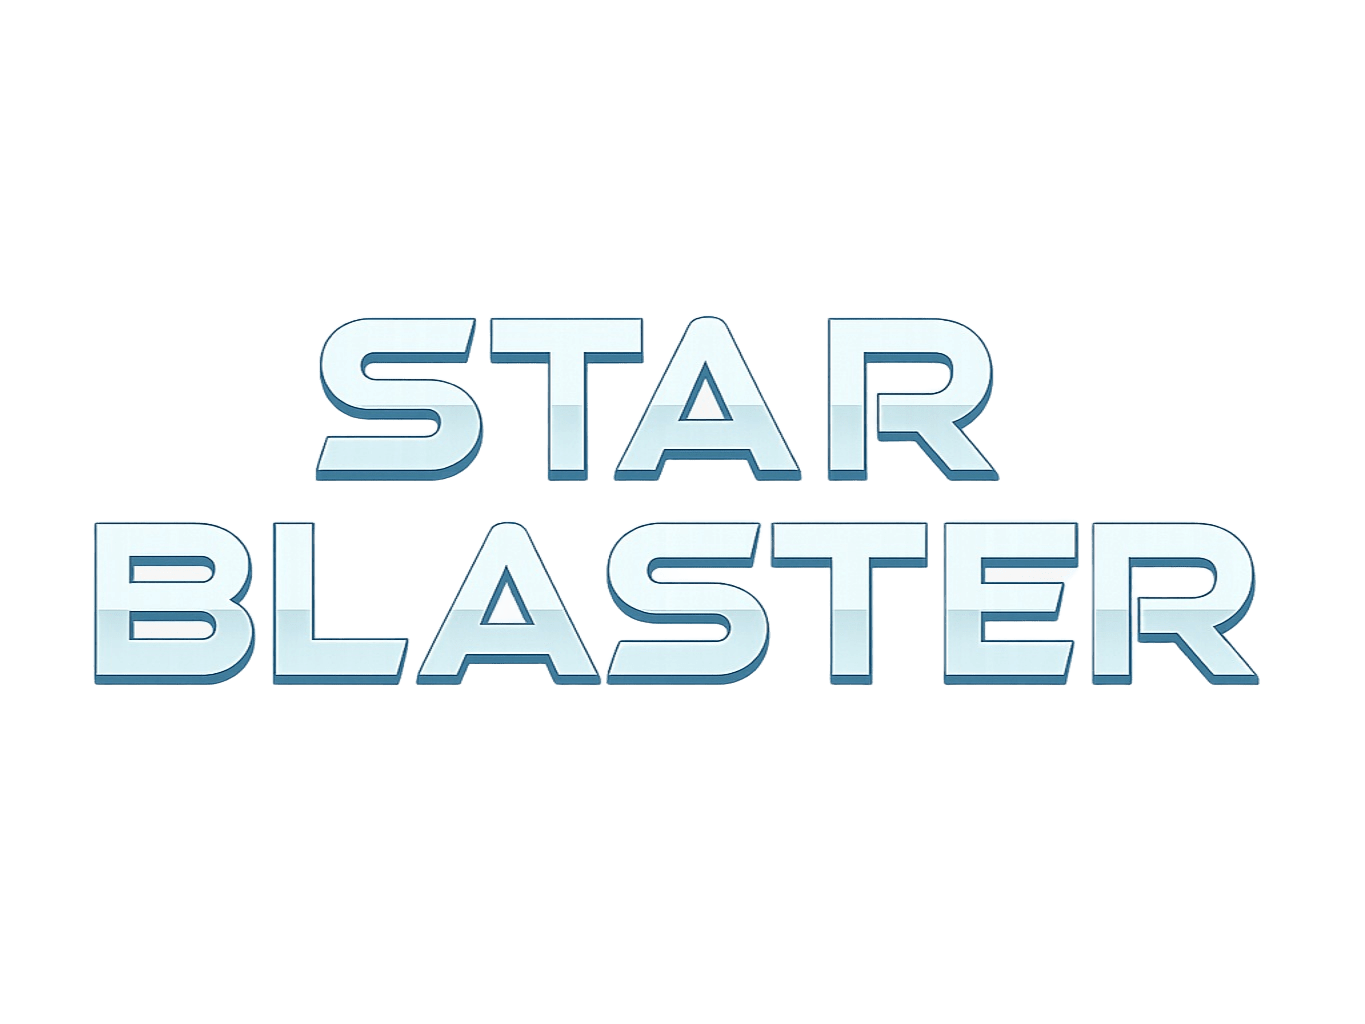
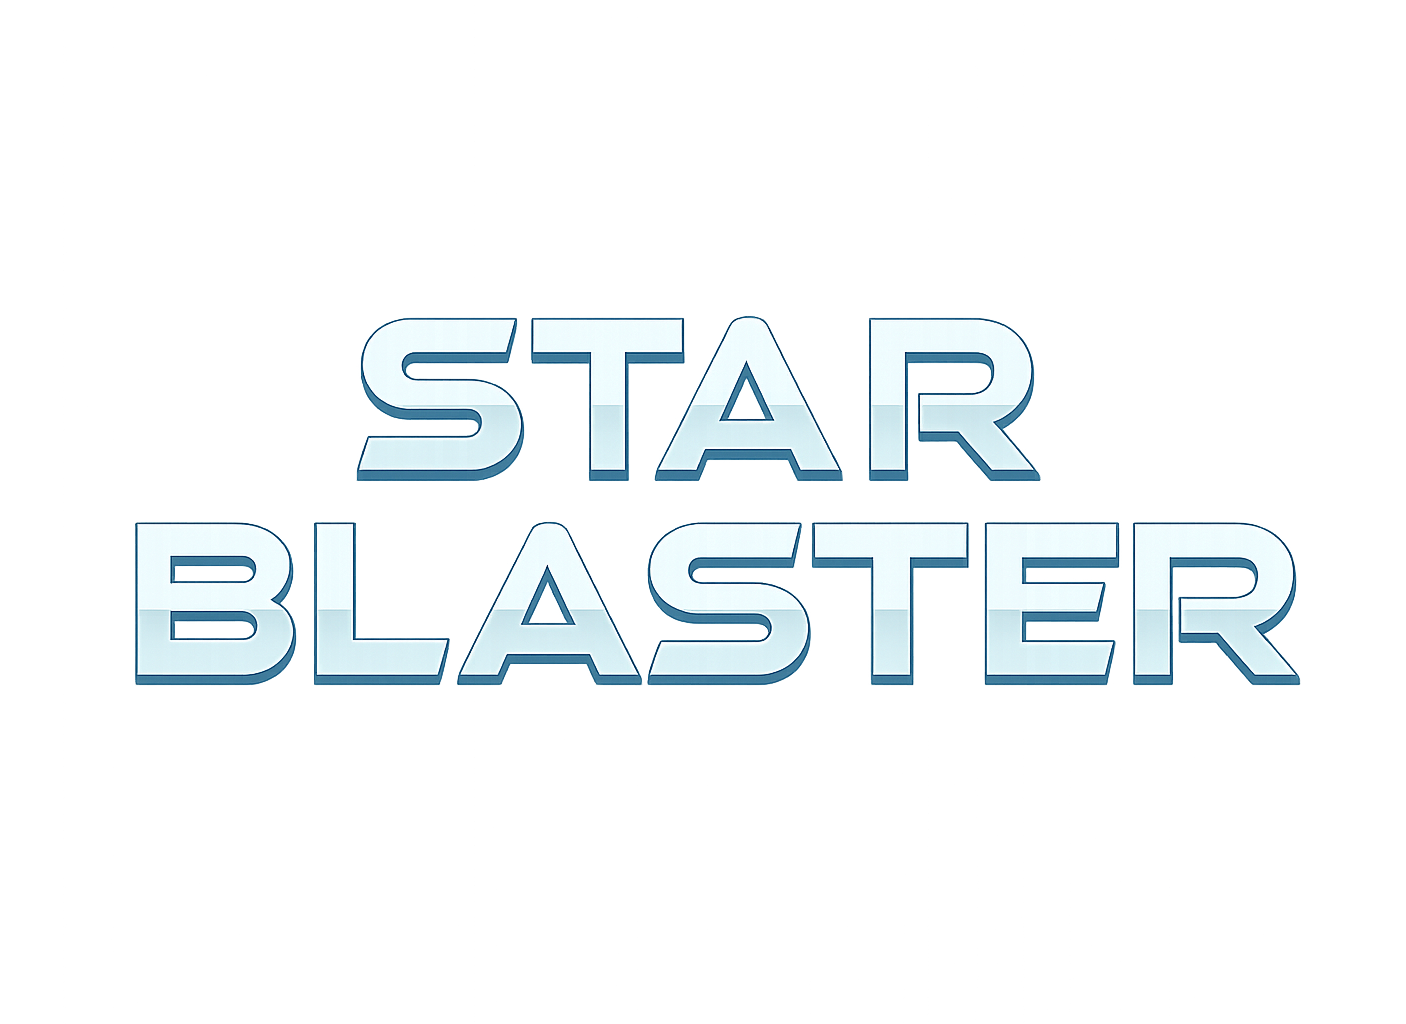
fix's

diff --git a/src/objects/ui/lives.js b/src/objects/ui/lives.js
@@ -20,6 +20,12 @@ export class Lives extends Phaser.GameObjects.Container {
       this.add(ship);
     }
 
+    // ⚠ Forçar carregamento da fonte "Press Start 2P"
+    this.scene.add.text(0, 0, '', {
+      fontFamily: '"Press Start 2P", monospace',
+      fontSize: '1px',
+    }).setAlpha(0); // invisível
+
     this.#eventBusComponent.on(CUSTOM_EVENTS.PLAYER_DESTROYED, () => {
       this.#lives -= 1;
       this.getAt(this.#lives).destroy();
@@ -35,11 +41,9 @@ export class Lives extends Phaser.GameObjects.Container {
       const centerX = this.scene.scale.width / 2;
       const centerY = this.scene.scale.height / 2;
 
-      // Overlay escuro
       const overlay = this.scene.add.rectangle(0, 0, this.scene.scale.width, this.scene.scale.height, 0x000000, 0.6);
       overlay.setOrigin(0);
 
-      // Texto "GAME OVER"
       const gameOverText = this.scene.add
         .text(centerX, centerY - 60, 'GAME OVER', {
           fontFamily: '"Press Start 2P", monospace',
@@ -64,6 +68,8 @@ export class Lives extends Phaser.GameObjects.Container {
         color: '#ffffff',
         backgroundColor: '#000000',
         padding: { left: 12, right: 12, top: 6, bottom: 6 },
+        fixedWidth: 320,
+        align: 'center',
       };
 
       // Botão "JOGAR NOVAMENTE"
@@ -72,8 +78,8 @@ export class Lives extends Phaser.GameObjects.Container {
         .setInteractive();
 
       retryBtn.on('pointerdown', () => this.scene.scene.restart());
-      retryBtn.on('pointerover', () => retryBtn.setStyle({ backgroundColor: '#ff2f66' }));
-      retryBtn.on('pointerout', () => retryBtn.setStyle({ backgroundColor: '#000000' }));
+      retryBtn.on('pointerover', () => retryBtn.setStyle({ backgroundColor: '#ff2f66', color: '#000000' }));
+      retryBtn.on('pointerout', () => retryBtn.setStyle({ backgroundColor: '#000000', color: '#ffffff' }));
 
       // Botão "VOLTAR PARA O MENU"
       const menuBtn = this.scene.add.text(centerX, centerY + 70, 'VOLTAR PARA O MENU', buttonStyle)
@@ -81,8 +87,8 @@ export class Lives extends Phaser.GameObjects.Container {
         .setInteractive();
 
       menuBtn.on('pointerdown', () => this.scene.scene.start('MenuScene'));
-      menuBtn.on('pointerover', () => menuBtn.setStyle({ backgroundColor: '#ff2f66' }));
-      menuBtn.on('pointerout', () => menuBtn.setStyle({ backgroundColor: '#000000' }));
+      menuBtn.on('pointerover', () => menuBtn.setStyle({ backgroundColor: '#ff2f66', color: '#000000' }));
+      menuBtn.on('pointerout', () => menuBtn.setStyle({ backgroundColor: '#000000', color: '#ffffff' }));
 
       this.#eventBusComponent.emit(CUSTOM_EVENTS.GAME_OVER);
     });

diff --git a/src/components/spawners/enemy-spawner-component.js b/src/components/spawners/enemy-spawner-component.js
@@ -11,7 +11,6 @@ export class EnemySpawnerComponent {
   constructor(scene, enemyClass, spawnConfig, eventBusComponent) {
     this.#scene = scene;
 
-    // create group
     this.#group = this.#scene.add.group({
       name: `${this.constructor.name}-${Phaser.Math.RND.uuid()}`,
       classType: enemyClass,
@@ -25,7 +24,6 @@ export class EnemySpawnerComponent {
     this.#spawnAt = spawnConfig.spawnAt;
     this.#disableSpawning = false;
 
-    // handle automatic call to update
     this.#scene.events.on(Phaser.Scenes.Events.UPDATE, this.update, this);
     this.#scene.physics.world.on(Phaser.Physics.Arcade.Events.WORLD_STEP, this.worldStep, this);
     this.#scene.events.once(

diff --git a/src/config.js b/src/config.js
@@ -7,7 +7,7 @@ export const PLAYER_BULLET_MAX_COUNT = 10;
 export const PLAYER_MOVEMENT_HORIZONTAL_VELOCITY = 20;
 
 export const ENEMY_FIGHTER_SCORE = 200;
-export const ENEMY_FIGHTER_HEALTH = 2;
+export const ENEMY_FIGHTER_HEALTH = 3;
 export const ENEMY_FIGHTER_MOVEMENT_VERTICAL_VELOCITY = 12;
 export const ENEMY_FIGHTER_BULLET_SPEED = -280;
 export const ENEMY_FIGHTER_BULLET_INTERVAL = 2000;

diff --git a/src/scenes/menu-scene.js b/src/scenes/menu-scene.js
@@ -23,7 +23,7 @@ export class MenuScene extends Phaser.Scene {
 
     // --- Botões principais ---
     this.add.image(width / 2, height / 2 - 100, 'header')
-      .setScale(0.25)
+      .setScale(0.30)
       .setOrigin(0.5);
 
     const startBtn = this.add.image(width / 2, height - 120, 'start_btn')
